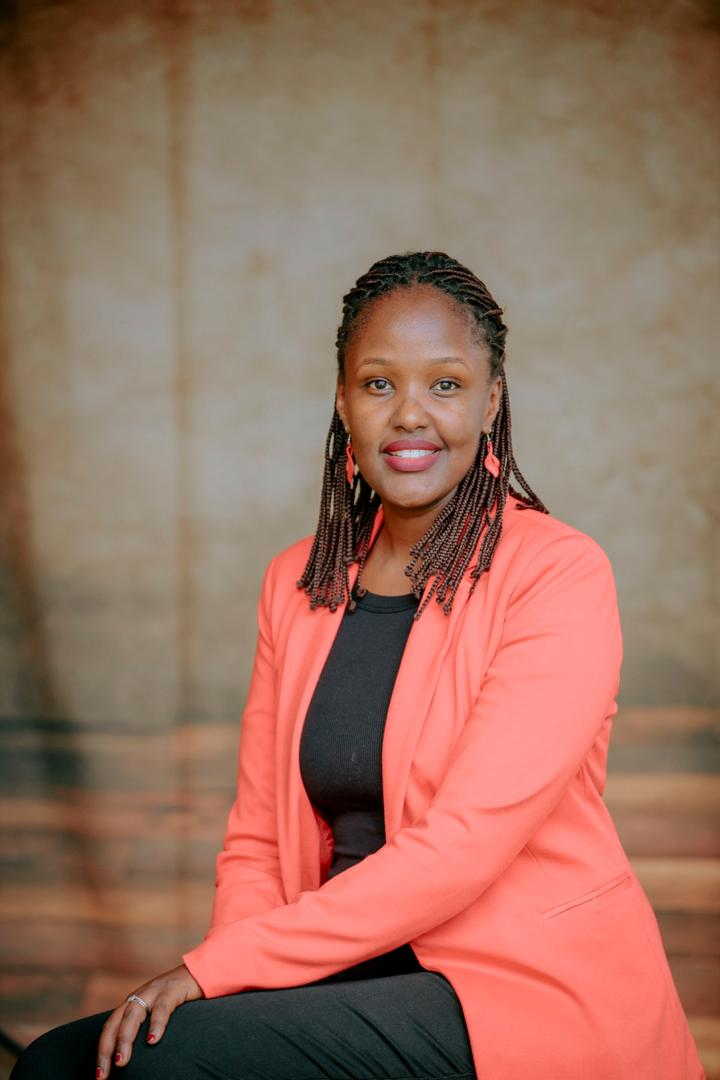
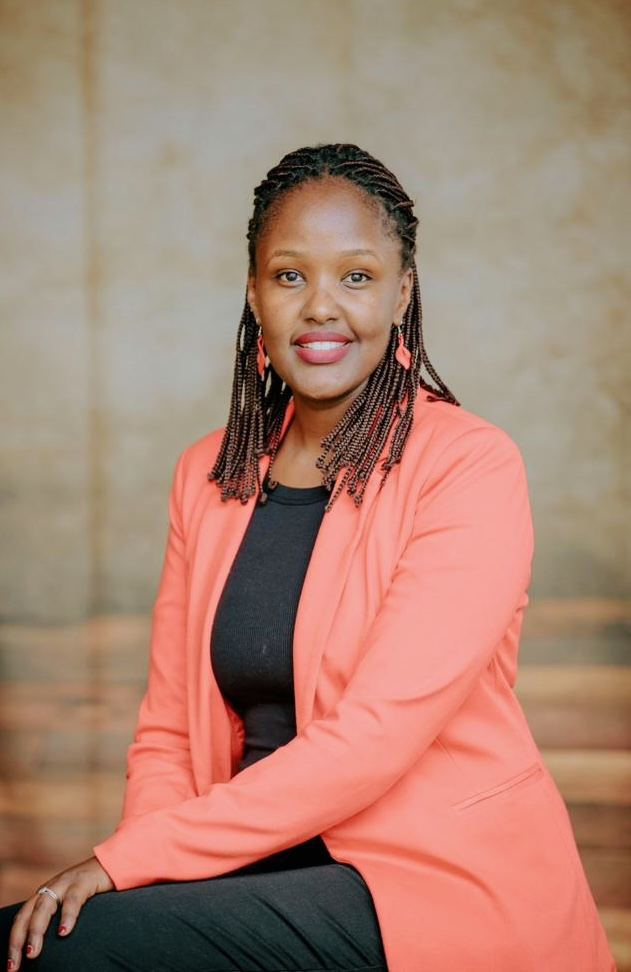
feat: add lazy loading to images across multiple components for improved performance

diff --git a/src/app/programmes/page.tsx b/src/app/programmes/page.tsx
@@ -55,6 +55,7 @@ export default function ProgrammesPage() {
                 fill 
                 style={{ objectFit: 'cover' }} 
                 alt={t('creche.imgAlt')} 
+                loading='lazy'
               />
               {t('creche.imgLabel')}
             </div>
@@ -93,6 +94,7 @@ export default function ProgrammesPage() {
                 fill 
                 style={{ objectFit: 'cover' }} 
                 alt={t('maternelle.imgAlt')} 
+                loading='lazy'
               />
               {t('maternelle.imgLabel')}
             </div>

diff --git a/src/app/campus/page.tsx b/src/app/campus/page.tsx
@@ -28,6 +28,7 @@ export default function CampusPage() {
                 fill
                 style={{ objectFit: 'cover' }}
                 alt={t('creche.imgAlt')}
+                loading='lazy'
               />
               {t('creche.imgLabel')}
             </div>
@@ -66,6 +67,7 @@ export default function CampusPage() {
                 fill
                 style={{ objectFit: 'cover' }}
                 alt={t('maternelle.imgAlt')}
+                loading='lazy'
               />
               {t('maternelle.imgLabel')}
             </div>

diff --git a/src/components/layout/Footer.tsx b/src/components/layout/Footer.tsx
@@ -22,12 +22,14 @@ export default function Footer() {
               alt="INGERI logo"
               width={175}
               height={175}
+              loading="lazy"
             />
             <Image
               src="/creche-logo.png"
               alt="INGERI creche logo"
               width={175}
               height={175}
+              loading="lazy"
             />
           </div>
           <p>{t('brand.tagline')}</p>

diff --git a/src/components/layout/Header.tsx b/src/components/layout/Header.tsx
@@ -98,6 +98,7 @@ export default function Header() {
             width={180}
             height={180}
             className={styles.logoImg}
+            loading="lazy"
           />
         </Link>
 
@@ -110,6 +111,7 @@ export default function Header() {
             width={180}
             height={160}
             className={styles.logoImg}
+            loading="lazy"
           />
         </Link>
 

diff --git a/src/app/contact/page.tsx b/src/app/contact/page.tsx
@@ -41,6 +41,7 @@ export default function ContactPage() {
                 fill
                 style={{ objectFit: 'cover' }}
                 alt={imgAlt}
+                loading='lazy'
               />
             </div>
             {/* Tabs — scoped to this column, switches contact info only */}

diff --git a/src/components/sections/HeroSection.tsx b/src/components/sections/HeroSection.tsx
@@ -43,6 +43,7 @@ export default function HeroSection() {
               alt={t('imgAlt')}
               fill
               style={{ objectFit: 'cover' }}
+              loading="lazy"
             />
             <div className={styles.heroImgInner}>
               <span>{t('imgCaption')}</span>

diff --git a/src/app/presentation/page.tsx b/src/app/presentation/page.tsx
@@ -3,7 +3,6 @@
 'use client'
 
 import Link from 'next/link'
-import Image from 'next/image'
 import {
   Leaf, Church, Handshake, TreePine, Sparkles,
   MessageSquare, Hash, Palette, Hand, Globe, Dumbbell, Music4, Star, Briefcase, GraduationCap, Users, ChevronLeft, ChevronRight, X

diff --git a/src/components/sections/DirectionQuote.tsx b/src/components/sections/DirectionQuote.tsx
@@ -26,6 +26,7 @@ export default function DirectionQuote() {
               alt={t('photoAlt')}
               fill
               style={{ objectFit: 'cover' }}
+              loading="lazy"
             />
             <div className={styles.photoLabel}>
               {t('name')}
